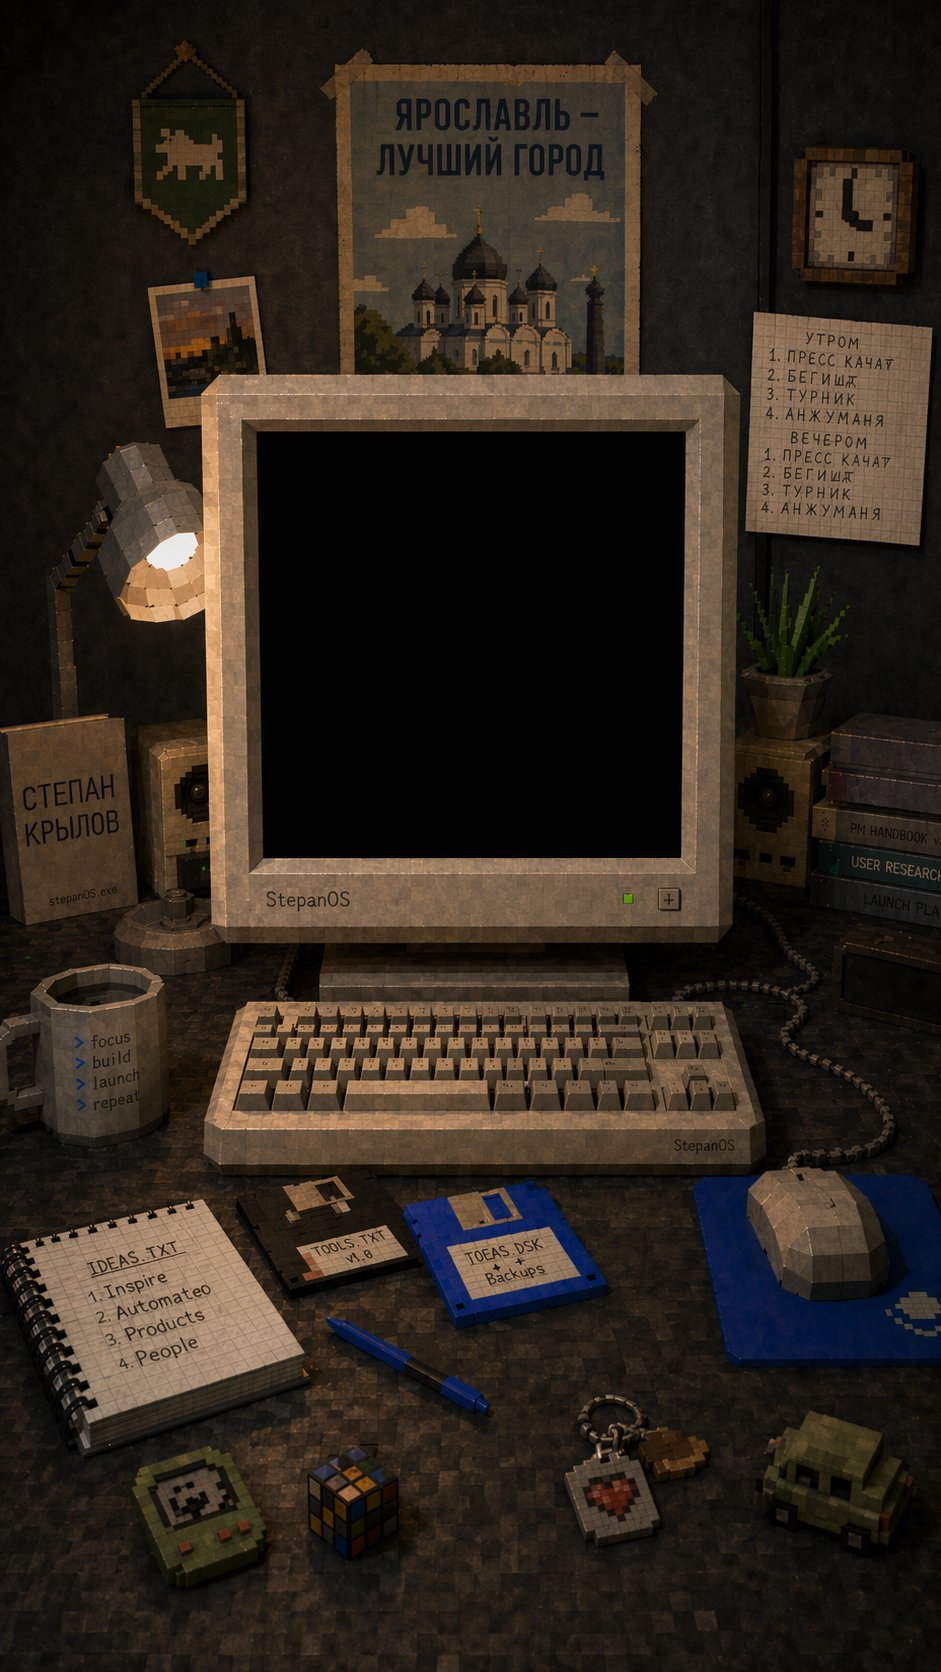
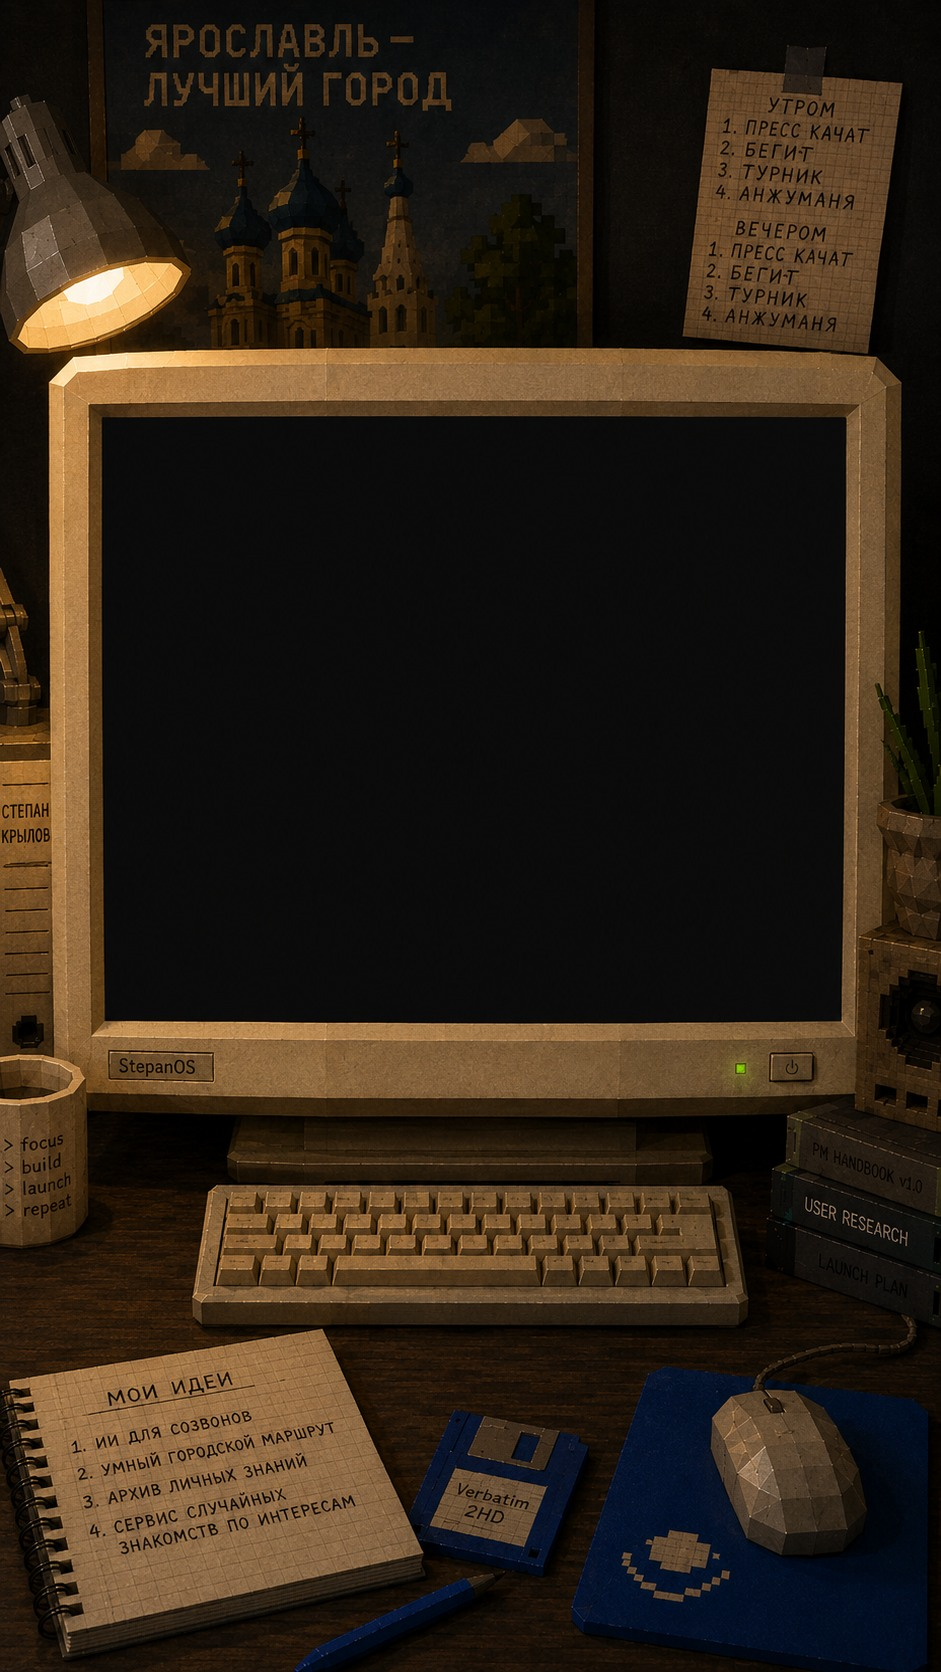
Обновлены фоны рабочего стола

diff --git a/style.css b/style.css
@@ -224,7 +224,7 @@ body { background: #0a0a0a; }   /* тёмные поля снаружи окна
 }
 #desk-bg {
   position: absolute; inset: 0;
-  background-image: url('bg.jpg');
+  background-image: url('bg.jpg?v=35');
   background-size: 100% 100%;       /* stage сам имеет аспект 1672/941 → без деформации */
   background-repeat: no-repeat;
   z-index: 1;
@@ -242,7 +242,7 @@ body { background: #0a0a0a; }   /* тёмные поля снаружи окна
 @keyframes flicker { 0%,100% { opacity: 1; } 50% { opacity: .92; } }
 
 /* ═══════════════ MONITOR WINDOW (overlay on CRT screen) ═══════════════ */
-/* Background CRT screen coords: left:32.89% top:14.13% w:34.63% h:43.57% */
+/* Границы чёрного CRT-экрана на десктопном фоне: x=415..1281, y=96..675. */
 /* Monitor window — «утоплен» в CRT-стекло.
    Окно ~500×400. Внутри .mw-body имеет свой белый/цветной фон,
    поэтому inset-shadow у #monitor-win перекрывается контентом.
@@ -250,10 +250,10 @@ body { background: #0a0a0a; }   /* тёмные поля снаружи окна
    (z-index выше всего, pointer-events: none — не мешает кликам). */
 #monitor-win {
   position: absolute;
-  left:  33.0%;
-  top:   14.3%;
-  width: 34.4%;
-  height: 43.2%;
+  left:  24.9%;
+  top:   10.4%;
+  width: 51.6%;
+  height: 61.1%;
   z-index: 200;
   background: #ece9d8;
   border: 1px solid #000;
@@ -1205,16 +1205,15 @@ a, button, .mw-icon, .ttt-cell { cursor: url('cursor-hand.png') 12 0, pointer; }
 
   /* Мобильная сцена */
   #desk-bg {
-    background-image: url('bg-mobile.jpg');
+    background-image: url('bg-mobile.jpg?v=35');
   }
 
-  /* ТОЧНЫЕ координаты чёрного CRT-экрана на финальном bg-mobile.png
-     (измерено попиксельно через measure_crt.py: x=27.5..72.6%, y=25.8..51.3%) */
+  /* Границы чёрного CRT-экрана на мобильном фоне: x=102..844, y=415..1023. */
   #monitor-win {
-    left:   27.5%;
-    top:    25.8%;
-    width:  45.1%;
-    height: 25.4%;
+    left:   10.95%;
+    top:    24.95%;
+    width:  78.6%;
+    height: 36.1%;
     /* На мобилке рамка CRT на bg уже квадратная — без закругления */
     border-radius: 0;
     box-shadow:

diff --git a/index.html b/index.html
@@ -23,11 +23,11 @@
 <link href="https://fonts.googleapis.com/css2?family=VT323&family=Press+Start+2P&display=swap" rel="stylesheet">
 <!-- Параллельная загрузка критичных ассетов — убирает задержку старта звука и фона -->
 <link rel="preload" as="audio" href="bg.mp3?v=30" type="audio/mpeg">
-<!-- URL фонов должны совпадать с url() в CSS (там без ?v=) — иначе preload не засчитывается и картинка качается дважды -->
-<link rel="preload" as="image" href="bg.jpg">
-<link rel="preload" as="image" href="bg-mobile.jpg">
+<!-- URL фонов должны совпадать с url() в CSS — иначе preload не засчитывается и картинка качается дважды -->
+<link rel="preload" as="image" href="bg.jpg?v=35">
+<link rel="preload" as="image" href="bg-mobile.jpg?v=35">
 <link rel="preload" as="video" href="boot-loader.mp4?v=30" type="video/mp4">
-<link rel="stylesheet" href="style.css?v=34">
+<link rel="stylesheet" href="style.css?v=35">
 </head>
 <body>
 
